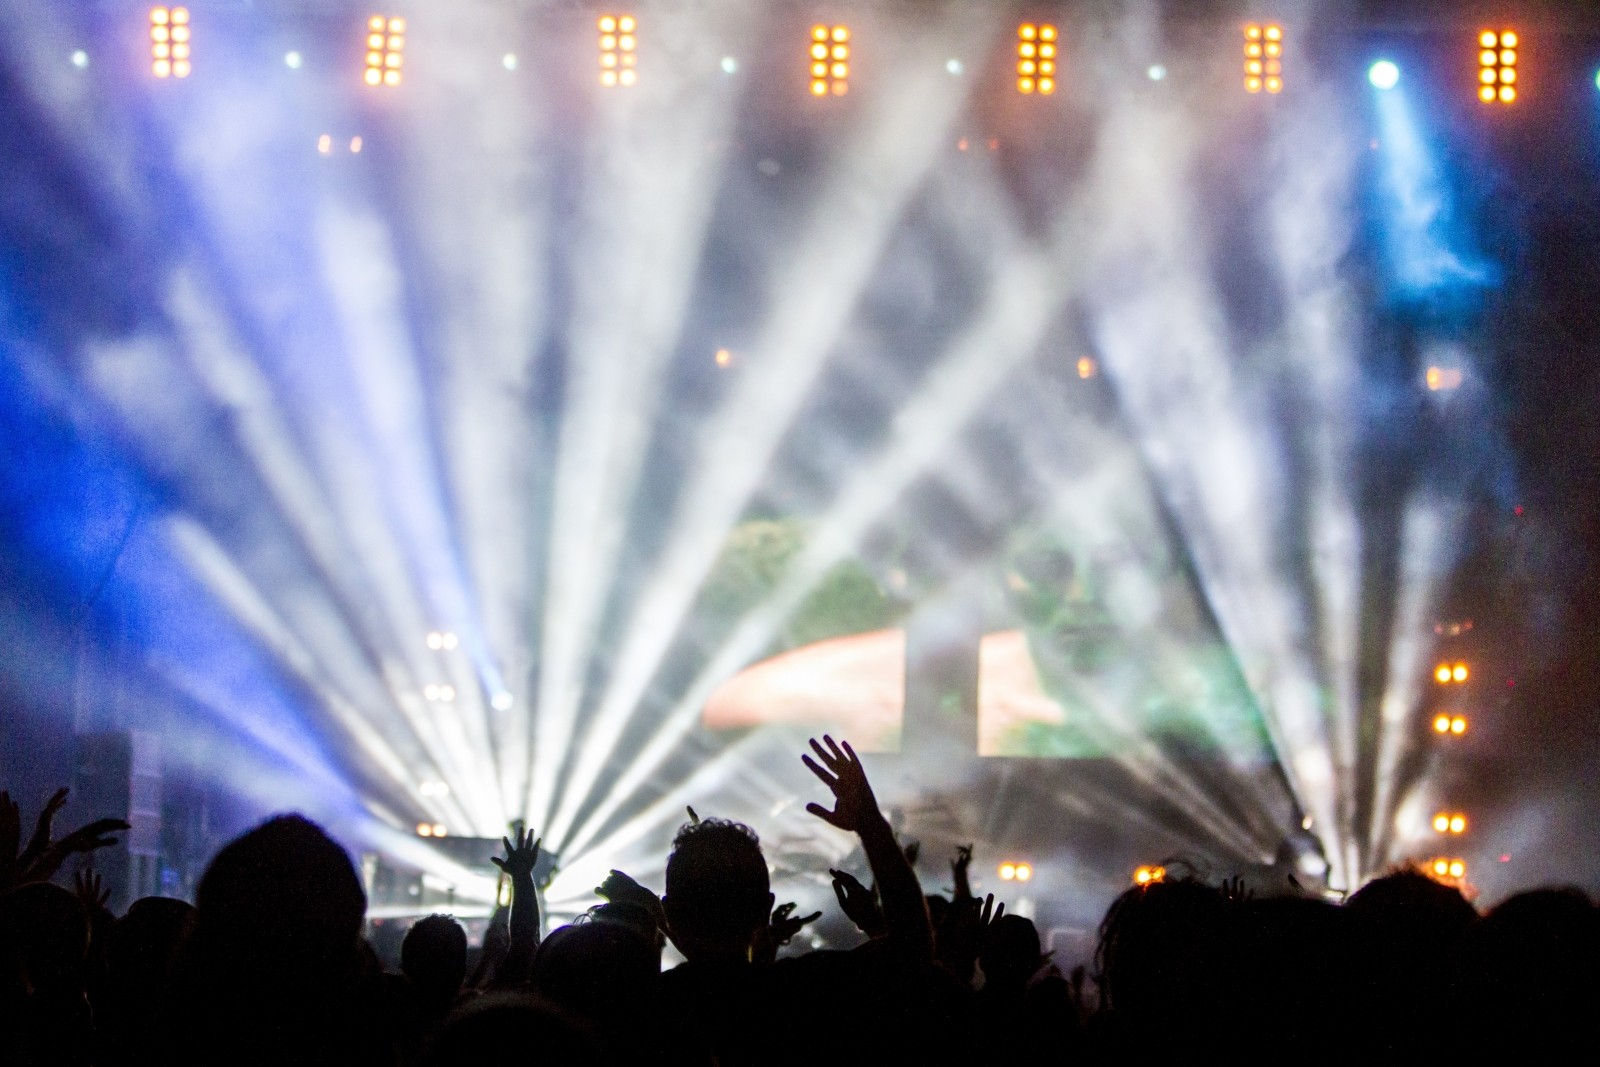
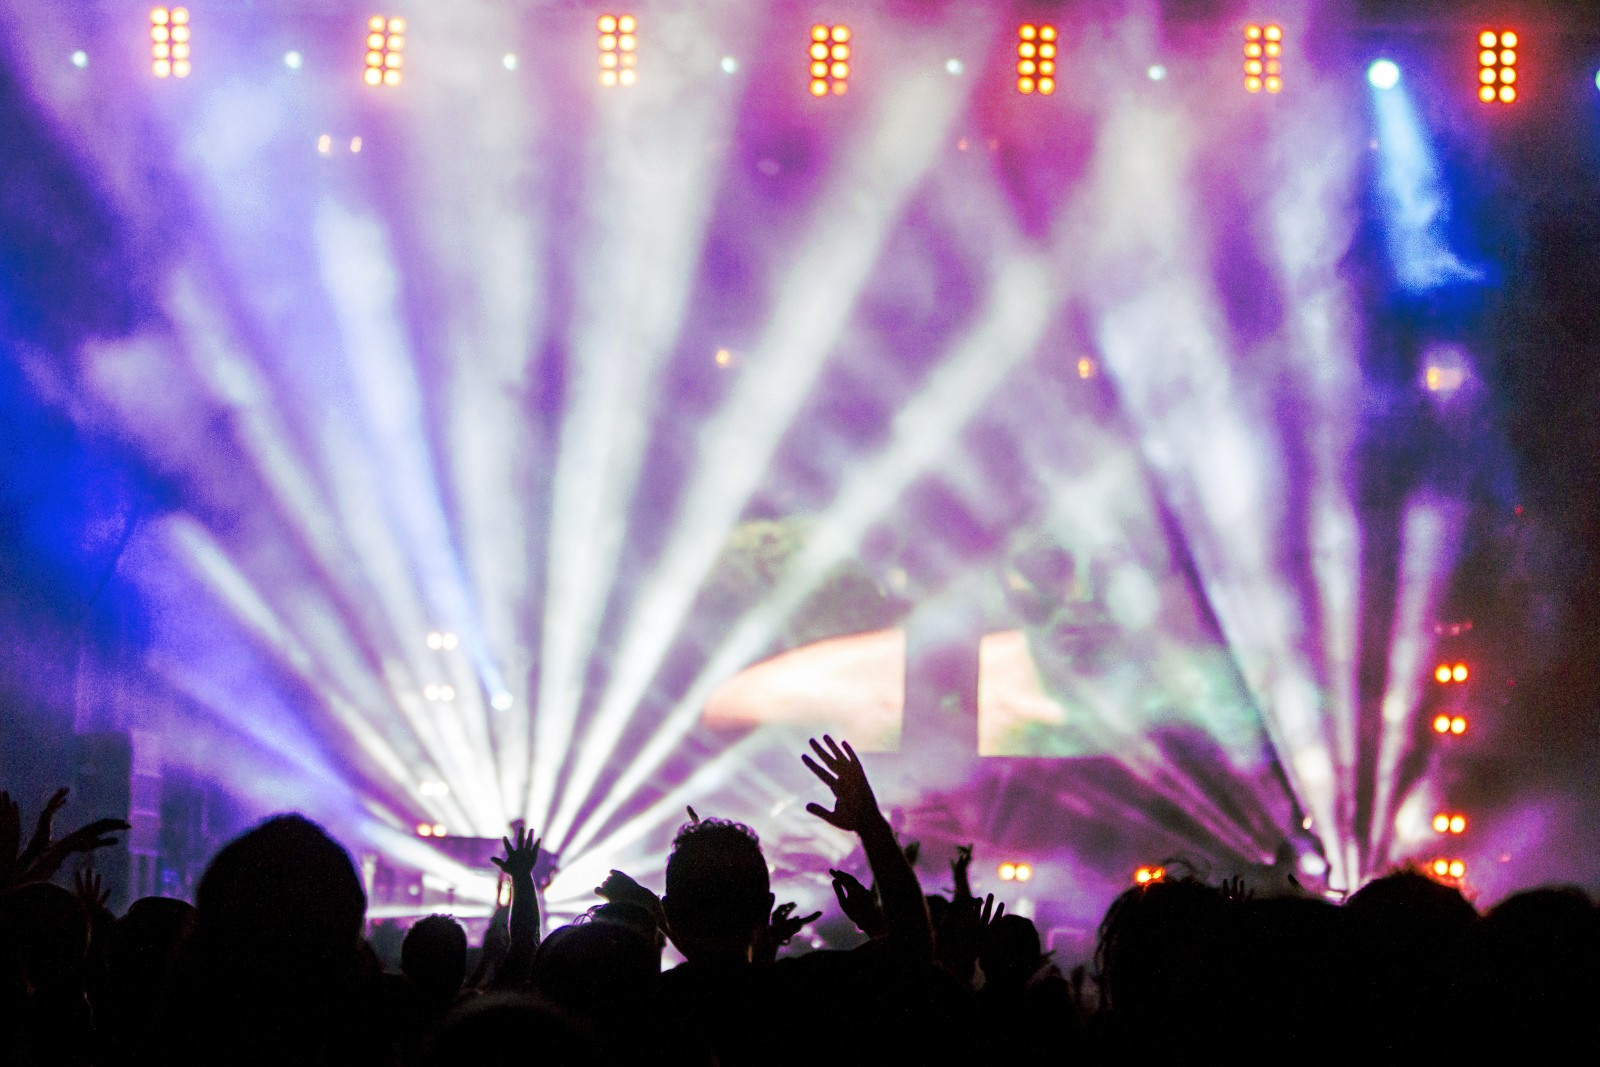
wiekszy header, nowa grafika

diff --git a/styles/header.css b/styles/header.css
@@ -105,9 +105,10 @@ body header {
 
 .naglowek-strony .tytul-duzy {
     width: 1200px;
-    font-size: 130px;
+    font-size: 150px;
     font-family: Bandy;
-    color: white;
+    font-weight: bold;
+    color: rgba(0,0,0,0.3);
     text-align: center;
     display: block;
     /*padding-right: 100px;*/
@@ -137,18 +138,22 @@ body header {
     margin-right: auto;
     text-align: center;
     position: relative;
-    display: table;
+    vertical-align: middle;
+    /*display: table;*/
 }
 
 .naglowek-strony li {
-    display: table-cell;
+    display: inline-block;
     vertical-align: middle;
     text-align: center;
     height: 30px;
     width: 220px;
-    background-color: white;
+    background-color: rgba(256,256,256,0.9);
     border-radius: 15px;
     font-family: Bandy;
+    font-weight: bold;
+    color: red;
+
 }
 
 

diff --git a/index.html b/index.html
@@ -30,10 +30,10 @@
 <header class="naglowek-strony">
     <nav>
         <ul>
-            <li>Co</li>
-            <li>Gdzie</li>
-            <li>Kiedy</li>
-            <li>Za friko</li>
+            <li>CO</li>
+            <li>GDZIE</li>
+            <li>KIEDY</li>
+            <li>ZA FRIKO</li>
         </ul>
 
     </nav>
